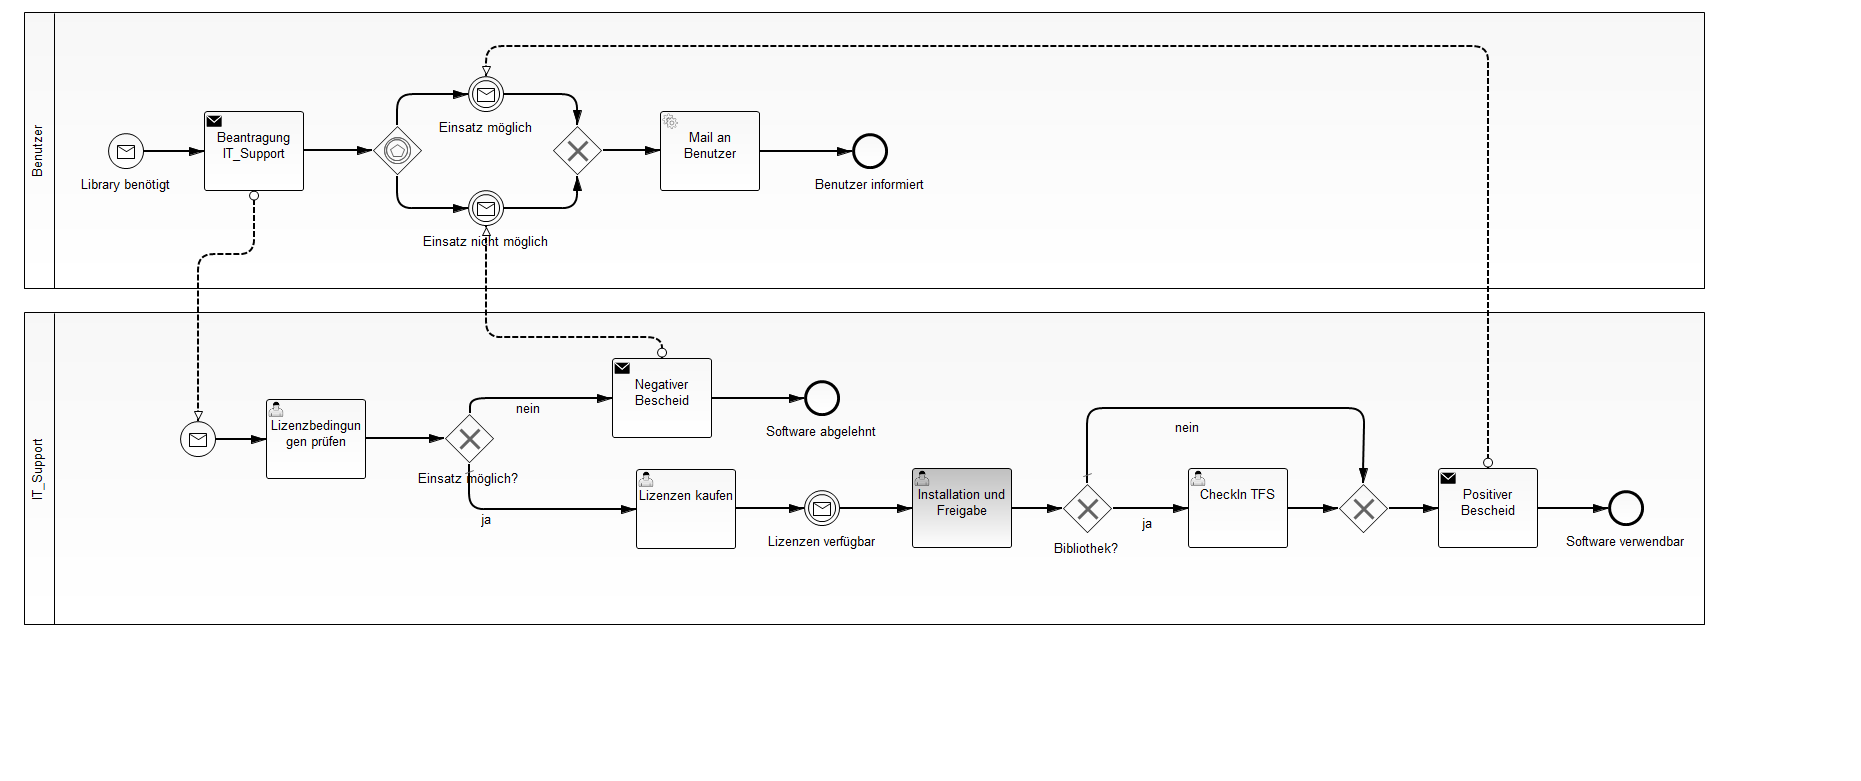
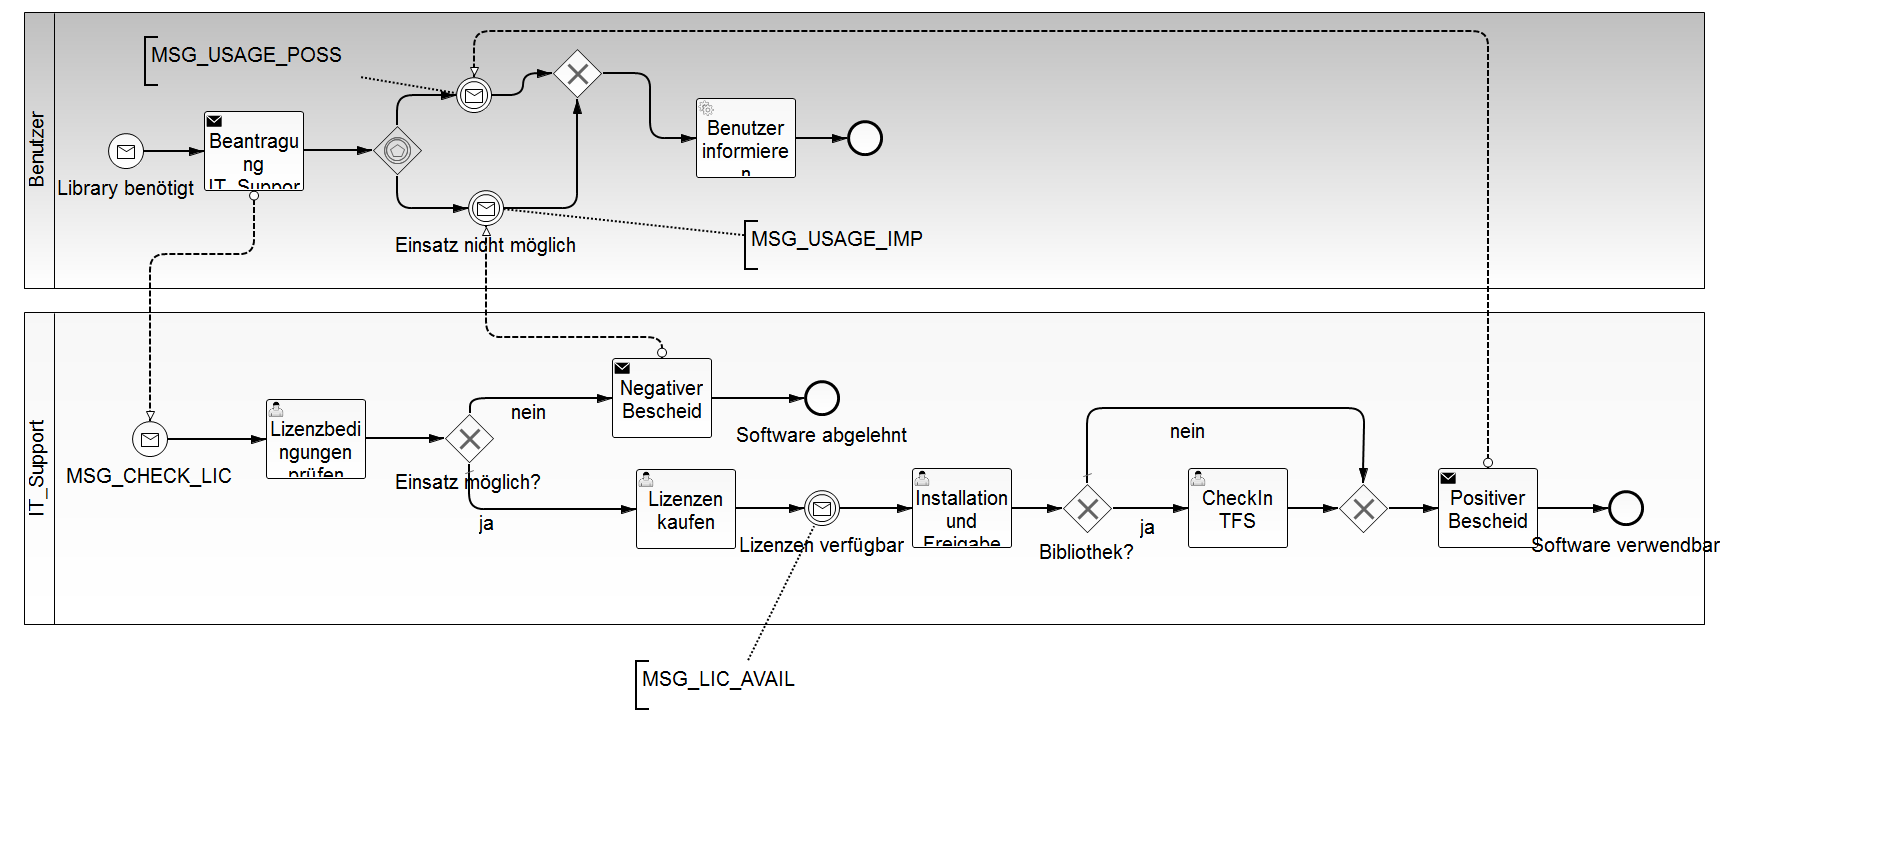
fixed library request process

diff --git a/bpmn-client/src/main/java/de/gravitex/bpmn/client/correlationtest/MessageCorrelationTestClient.java b/bpmn-client/src/main/java/de/gravitex/bpmn/client/correlationtest/MessageCorrelationTestClient.java
@@ -1,6 +1,8 @@
 package de.gravitex.bpmn.client.correlationtest;
 
 import java.rmi.RemoteException;
+import java.util.HashMap;
+import java.util.Map;
 
 import de.gravitex.bpmn.client.singleton.ProcessingSingleton;
 
@@ -10,8 +12,15 @@ public class MessageCorrelationTestClient
 	{
 		try
 		{
-			ProcessingSingleton.getInstance().correlateMessage("MSG_CLOSE_TICKET",
-					"bk35", null);
+			//start process
+//			Map<String, Object> variables = new HashMap<>();
+//			variables.put("libraryName", "someCoolLibrary");
+//			ProcessingSingleton.getInstance().correlateMessage("MSG_LIB_REQ",
+//					"moo", variables);
+			//available
+			HashMap<String, Object> variables = new HashMap<String, Object>();
+			ProcessingSingleton.getInstance().correlateMessage("MSG_LIC_AVAIL",
+					null, variables);
 		} catch (RemoteException e)
 		{
 			e.printStackTrace();

diff --git a/bpmn-server/src/main/java/de/gravitex/bpmn/server/delegate/librequest/NegativeAnswerDelegate.java b/bpmn-server/src/main/java/de/gravitex/bpmn/server/delegate/librequest/NegativeAnswerDelegate.java
@@ -1,0 +1,18 @@
+package de.gravitex.bpmn.server.delegate.librequest;
+
+import java.util.HashMap;
+
+import org.camunda.bpm.engine.delegate.DelegateExecution;
+import org.camunda.bpm.engine.delegate.JavaDelegate;
+
+import de.gravitex.bpmn.server.singleton.BpmEngine;
+
+public class NegativeAnswerDelegate implements JavaDelegate
+{
+	public void execute(DelegateExecution execution) throws Exception
+	{
+		HashMap<String, Object> variables = new HashMap<String, Object>();
+		variables.put("libraryApproved", false);
+		BpmEngine.getInstance().getProcessEngine().getRuntimeService().correlateMessage("MSG_USAGE_IMP", null, null, variables);
+	}
+}

diff --git a/bpmn-server/src/main/java/de/gravitex/bpmn/server/delegate/librequest/PositiveAnswerDelegate.java b/bpmn-server/src/main/java/de/gravitex/bpmn/server/delegate/librequest/PositiveAnswerDelegate.java
@@ -1,0 +1,18 @@
+package de.gravitex.bpmn.server.delegate.librequest;
+
+import java.util.HashMap;
+
+import org.camunda.bpm.engine.delegate.DelegateExecution;
+import org.camunda.bpm.engine.delegate.JavaDelegate;
+
+import de.gravitex.bpmn.server.singleton.BpmEngine;
+
+public class PositiveAnswerDelegate implements JavaDelegate
+{
+	public void execute(DelegateExecution execution) throws Exception
+	{
+		HashMap<String, Object> variables = new HashMap<String, Object>();
+		variables.put("libraryApproved", true);
+		BpmEngine.getInstance().getProcessEngine().getRuntimeService().correlateMessage("MSG_USAGE_POSS", null, null, variables);
+	}
+}

diff --git a/bpmn-server/src/main/java/de/gravitex/bpmn/server/delegate/librequest/RequestLibraryDelegate.java b/bpmn-server/src/main/java/de/gravitex/bpmn/server/delegate/librequest/RequestLibraryDelegate.java
@@ -1,0 +1,18 @@
+package de.gravitex.bpmn.server.delegate.librequest;
+
+import org.camunda.bpm.engine.delegate.DelegateExecution;
+import org.camunda.bpm.engine.delegate.JavaDelegate;
+
+import de.gravitex.bpmn.server.singleton.BpmEngine;
+
+public class RequestLibraryDelegate implements JavaDelegate
+{
+	public void execute(DelegateExecution execution) throws Exception
+	{
+		if (execution.getVariable("libraryName") == null)
+		{
+			throw new Exception("library name must be set for starting request process!!");
+		}
+		BpmEngine.getInstance().getProcessEngine().getRuntimeService().correlateMessage("MSG_CHECK_LIC");
+	}
+}

diff --git a/bpmn-server/src/main/java/de/gravitex/bpmn/server/delegate/librequest/SendUserMailDelegate.java b/bpmn-server/src/main/java/de/gravitex/bpmn/server/delegate/librequest/SendUserMailDelegate.java
@@ -1,0 +1,19 @@
+package de.gravitex.bpmn.server.delegate.librequest;
+
+import org.camunda.bpm.engine.delegate.DelegateExecution;
+import org.camunda.bpm.engine.delegate.JavaDelegate;
+
+public class SendUserMailDelegate implements JavaDelegate
+{
+	public void execute(DelegateExecution execution) throws Exception
+	{
+		if ((boolean) execution.getVariable("libraryApproved"))
+		{
+			System.out.println("Boohoo...library "+execution.getVariable("libraryName")+" approved!!");
+		}
+		else
+		{
+			System.out.println("Sorry...library "+execution.getVariable("libraryName")+" declined!!");
+		}
+	}
+}
